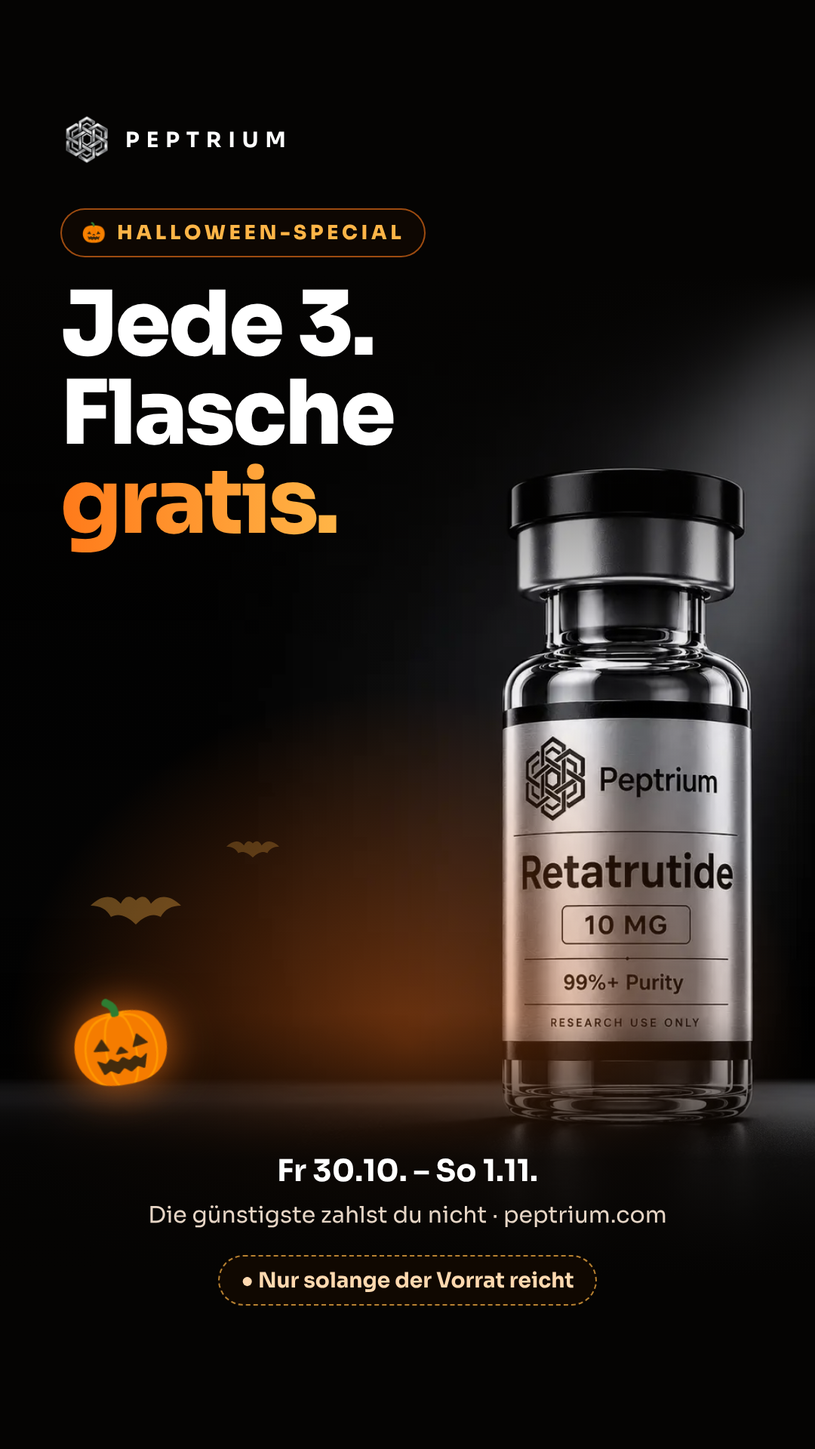
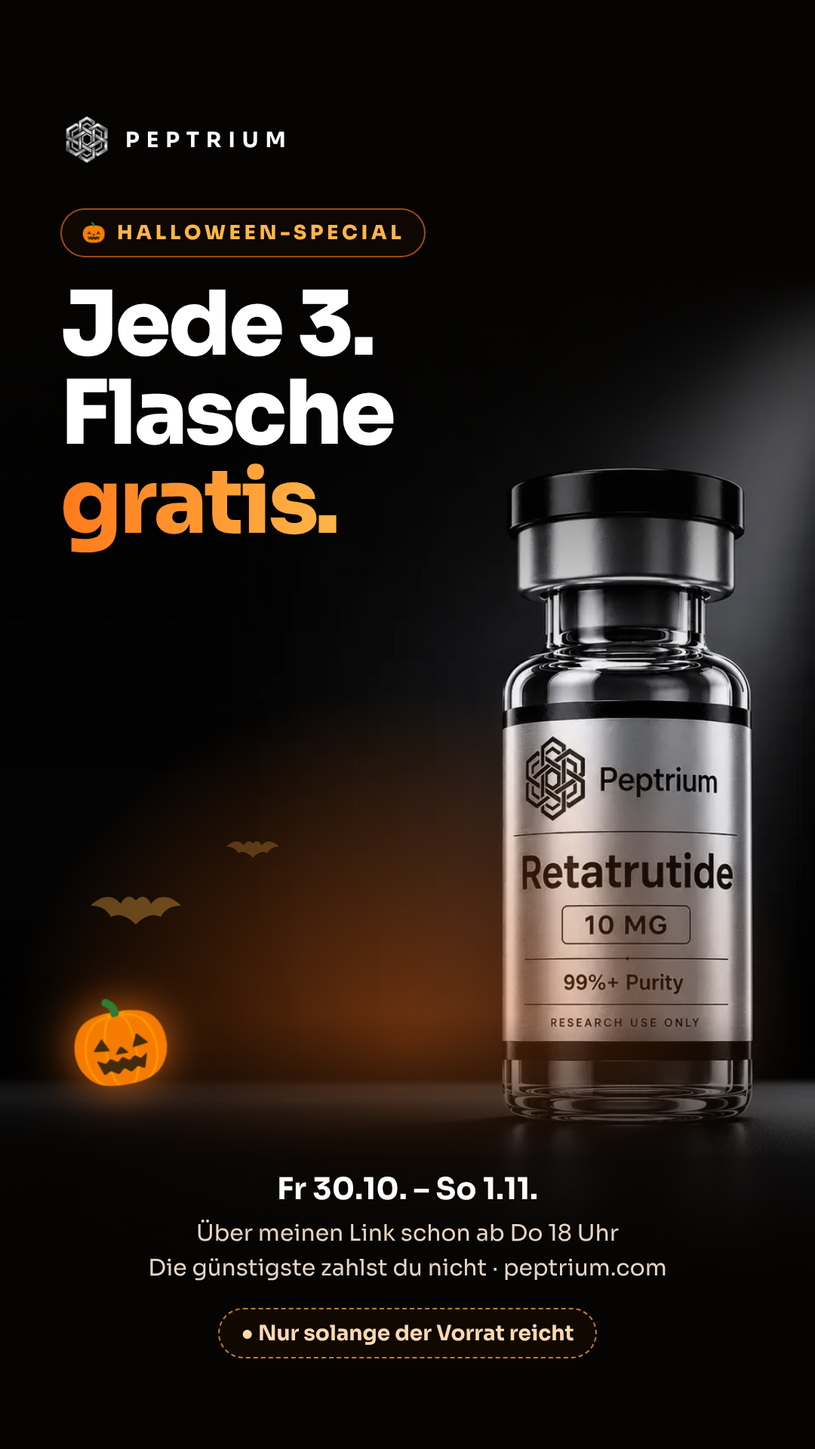
Halloween: Codes/Partnerrabatt nur auf Nicht-Aktionsartikel, Early Access über Partner-Link, Partner-Info aktualisiert
Claude-Session: https://claude.ai/code/session_011YY7DBkbr5BcFGKyLoSbVN

Changed region(s): [[0.1833, 0.7812, 0.825, 0.9375]]

diff --git a/drafts/halloween-2026-10-22/partner/sheet.html b/drafts/halloween-2026-10-22/partner/sheet.html
@@ -42,8 +42,8 @@ h1 span{background:linear-gradient(90deg,#FF7A1A,#FFB547);-webkit-background-cli
 <p class="lead">Unsere Halloween-Aktion – und für dich gibt’s in der Zeit <b style="color:#FFB547">+5 % Provision</b> obendrauf.</p>
 
 <div class="card"><h2>ZEITPLAN</h2><div class="tl">
-<div class="r"><div class="d">Do 29.10. 18 Uhr</div><div class="t"><b>Early Access</b> nur für Newsletter-Abonnenten. Gern schon anteasern: „Morgen startet’s“.</div></div>
-<div class="r"><div class="d">Fr 30.10. 0 Uhr</div><div class="t"><b>Start für alle</b> – jetzt posten! 🎃</div></div>
+<div class="r"><div class="d">Do 29.10. 18 Uhr</div><div class="t"><b>Early Access</b> für Newsletter-Abonnenten <b>und alle, die über deinen Link kommen</b> – du kannst schon ab Donnerstag 18 Uhr posten! 🎃</div></div>
+<div class="r"><div class="d">Fr 30.10. 0 Uhr</div><div class="t"><b>Start für alle</b> – auch ohne Link.</div></div>
 <div class="r"><div class="d">Sa 31.10.</div><div class="t"><b>Halloween</b> – zweiter Post / Story: „Nur noch bis Sonntag“.</div></div>
 <div class="r"><div class="d">So 1.11. 23:59</div><div class="t"><b>Ende</b> – solange der Vorrat reicht.</div></div>
 </div></div>
@@ -52,15 +52,16 @@ h1 span{background:linear-gradient(90deg,#FF7A1A,#FFB547);-webkit-background-cli
 <li>Jede <b>3. Flasche gratis</b> – die günstigste im Warenkorb.</li>
 <li>Gilt für alle <b>vorrätigen Peptid-Flaschen</b>, auch gemischt (z. B. 2× Reta + 1× GHK-Cu).</li>
 <li>Nicht für Pens, Zubehör und Vorbestellungen.</li>
-<li>In der Zeit gelten <b>keine Rabattcodes</b> – das Angebot ist schon stärker.</li>
+<li>Rabattcodes gelten <b>nicht auf die Aktionsflaschen</b> – auf <b>Pens & Zubehör</b> wie immer.</li>
 </ul></div>
 
 <div class="card"><h2>WAS DAS FÜR DICH HEISST</h2><ul class="li">
 <li>Dein <b>Link</b> und dein <b>Code</b> funktionieren weiter – jede Bestellung wird <b>dir zugeordnet</b>.</li>
-<li>Dein Code gibt in der Zeit keinen Extra-Rabatt, das Angebot ersetzt ihn.</li>
+<li>Auf die Aktionsflaschen bekommt dein Kunde statt Code-Rabatt die <b>Gratis-Flasche</b> – das ist mehr wert. Auf <b>Pens & Zubehör</b> gilt dein Rabatt wie immer.</li>
 <li><b>+5 Prozentpunkte Provision</b> auf jede Bestellung in der Aktion (z. B. 20 % → 25 %).</li>
 </ul>
 <div class="big" style="margin-top:26px"><div><small>NORMAL · 1× RETA</small><b>13,48 €</b></div><div><small>HALLOWEEN · 3× RETA</small><b class="o">37,45 €</b></div></div>
+<ul class="li" style="margin-top:22px"><li>Der Bonus wird mit deiner <b>normalen Auszahlung</b> verrechnet. Auch Vorkasse-Bestellungen, die erst nach Sonntag bezahlt werden, zählen – entscheidend ist der <b>Bestellzeitpunkt</b>.</li></ul>
 <p class="ex">Beispiel bei 20 %: Kunde nimmt 3× Retatrutide 10 mg, zahlt <b>149,80 €</b> → du bekommst <b>25 % = 37,45 €</b>. Größere Warenkörbe = mehr für dich.</p>
 </div>
 
@@ -68,10 +69,12 @@ h1 span{background:linear-gradient(90deg,#FF7A1A,#FFB547);-webkit-background-cli
 <li>Hook: <b>„Bei Peptrium ist an Halloween jede 3. Flasche gratis 🎃“</b></li>
 <li>Zeig 3 Flaschen – eine davon „gratis“. Link in Bio / dein Code wie immer.</li>
 <li>Knappheit ehrlich: „Nur bis Sonntag, solange der Vorrat reicht“.</li>
+<li>Kunde fragt „Code + Angebot?“ → <b>Auf Flaschen gilt die Gratis-Flasche, auf Pens dein Code.</b></li>
 </ul>
 <ul class="li no" style="margin-top:18px">
 <li><b>Keine</b> Aussagen zu Wirkung, Abnehmen oder Dosierung – nur Laborforschung.</li>
 <li><b>Keine</b> erfundenen Preise oder Rabatte – nur „jede 3. Flasche gratis“.</li>
+<li>Die Story-Vorlage bitte <b>nicht mit eigenen Preisen</b> beschriften.</li>
 </ul></div>
 <p class="ft">Fragen? Einfach hier im Chat melden. · peptrium.com</p>
 </div></body></html>

diff --git a/drafts/halloween-2026-10-22/partner/story.html b/drafts/halloween-2026-10-22/partner/story.html
@@ -10,7 +10,7 @@ body{width:1080px;height:1920px;overflow:hidden;font-family:Sora,sans-serif;colo
 .pill{display:inline-block;margin-top:56px;font-size:26px;font-weight:800;letter-spacing:.18em;color:#FFB547;border:2px solid rgba(255,122,26,.6);background:rgba(20,10,2,.6);border-radius:99px;padding:14px 26px}
 h1{font-size:118px;line-height:1;font-weight:800;letter-spacing:-.03em;margin-top:30px}
 h1 span{background:linear-gradient(90deg,#FF7A1A,#FFB547);-webkit-background-clip:text;background-clip:text;color:transparent}
-.bot{position:absolute;left:80px;right:80px;bottom:190px;text-align:center}
+.bot{position:absolute;left:80px;right:80px;bottom:120px;text-align:center}
 .d{font-size:40px;font-weight:700}
 .s{font-size:30px;color:#E7D6C6;margin-top:14px}
 .vr{display:inline-block;margin-top:34px;font-size:28px;font-weight:700;color:#FFD9B0;border:2px dashed rgba(255,181,71,.7);border-radius:99px;padding:14px 28px;background:rgba(20,10,2,.75)}
@@ -25,5 +25,5 @@ h1 span{background:linear-gradient(90deg,#FF7A1A,#FFB547);-webkit-background-cli
 <div class="in"><div class="top"><img src="https://peptrium.com/wp-content/uploads/2026/08/IMG_2644-cropped-300x300.png"><b>PEPTRIUM</b></div>
 <div class="pill">🎃 HALLOWEEN-SPECIAL</div>
 <h1>Jede 3.<br>Flasche<br><span>gratis.</span></h1></div>
-<div class="bot"><div class="d">Fr 30.10. – So 1.11.</div><div class="s">Die günstigste zahlst du nicht · peptrium.com</div><div class="vr">● Nur solange der Vorrat reicht</div></div>
+<div class="bot"><div class="d">Fr 30.10. – So 1.11.</div><div class="s">Über meinen Link schon ab Do 18 Uhr</div><div class="s" style="margin-top:8px">Die günstigste zahlst du nicht · peptrium.com</div><div class="vr">● Nur solange der Vorrat reicht</div></div>
 </body></html>

diff --git a/drafts/halloween-2026-10-22/sp-halloween.php b/drafts/halloween-2026-10-22/sp-halloween.php
@@ -59,6 +59,11 @@ function sp_hw_has_ea() {
     return !empty($_COOKIE['sp_hw_ea']) && hash_equals(sp_hw_cookie_val('ea'), (string) $_COOKIE['sp_hw_ea']);
 }
 
+/** Besucher kam ueber einen Partner-Link (SliceWP-Cookie) -> Early Access wie Newsletter. */
+function sp_hw_has_partner() {
+    return function_exists('slicewp_get_referrer_affiliate_id') && (int) slicewp_get_referrer_affiliate_id() > 0;
+}
+
 /** off | teaser | early | live | ended – Sicht des aktuellen Besuchers. */
 function sp_hw_state() {
     static $s = null;
@@ -69,7 +74,7 @@ function sp_hw_state() {
     $now = time();
     if ($now >= $o['end']) return $s = 'ended';
     if ($now >= $o['start']) return $s = 'live';
-    if ($now >= $o['early'] && sp_hw_has_ea()) return $s = 'early';
+    if ($now >= $o['early'] && (sp_hw_has_ea() || sp_hw_has_partner())) return $s = 'early';
     return $s = 'teaser';
 }
 
@@ -202,42 +207,67 @@ add_action('woocommerce_checkout_create_order', function ($order) {
 }, 20);
 
 /* ---------------------------------------------------------------------
- * Codes & Empfehlungs-Rabatt waehrend der Aktion
+ * Codes & Empfehlungs-Rabatt waehrend der Aktion (User 2026-10-22):
+ * gelten NICHT auf Aktionsflaschen (dort gibt es die Gratis-Flasche), aber weiter
+ * auf Pens, Zubehoer usw. Partner-Codes bleiben immer gueltig (Zuordnung).
  * ------------------------------------------------------------------- */
 function sp_hw_is_partner_coupon($coupon) {
     $id = is_object($coupon) ? $coupon->get_id() : wc_get_coupon_id_by_code((string) $coupon);
     return $id && get_post_meta($id, '_sp_affiliate_id', true);
 }
 
+/** Cart-Zeile zaehlt zur Aktion (keine Geschenk-/Abo-Zeile, Produkt geeignet). */
+function sp_hw_item_in_action($item) {
+    if (defined('SP_GIFT_ITEM_META') && !empty($item[SP_GIFT_ITEM_META])) return false;
+    if (!empty($item['sp_abo_interval_days'])) return false;
+    return !empty($item['data']) && sp_hw_product_eligible($item['data']);
+}
+
+/** Summe der Positionen, auf die Codes/Partnerrabatt weiter wirken. */
+function sp_hw_other_subtotal($cart) {
+    $sum = 0.0;
+    foreach ($cart->get_cart() as $item) {
+        if (defined('SP_GIFT_ITEM_META') && !empty($item[SP_GIFT_ITEM_META])) continue;
+        if (sp_hw_item_in_action($item)) continue;
+        $sum += (float) $item['data']->get_price() * (int) $item['quantity'];
+    }
+    return $sum;
+}
+
 add_filter('woocommerce_coupon_is_valid', function ($valid, $coupon) {
-    if (!$valid || !sp_hw_active() || sp_hw_is_partner_coupon($coupon)) return $valid;
-    return false;
+    if (!$valid || !sp_hw_active() || sp_hw_is_partner_coupon($coupon) || !WC()->cart) return $valid;
+    return sp_hw_other_subtotal(WC()->cart) > 0 ? $valid : false;
 }, 50, 2);
 
 add_filter('woocommerce_coupon_error', function ($err, $err_code, $coupon) {
     if ((int) $err_code === WC_Coupon::E_WC_COUPON_INVALID_FILTERED && sp_hw_active() && $coupon && !sp_hw_is_partner_coupon($coupon)) {
-        return 'Während des Halloween-Angebots gelten keine Rabattcodes – jede 3. Flasche ist schon gratis. 🎃';
+        return 'Auf die Halloween-Flaschen gibt es schon die Gratis-Flasche – Rabattcodes gelten in der Zeit nur für Pens und Zubehör. 🎃';
     }
     return $err;
 }, 50, 3);
 
 add_filter('woocommerce_coupon_get_discount_amount', function ($amount, $discounting, $cart_item, $single, $coupon) {
-    return (sp_hw_active() && sp_hw_is_partner_coupon($coupon)) ? 0 : $amount;
+    return (sp_hw_active() && is_array($cart_item) && sp_hw_item_in_action($cart_item)) ? 0 : $amount;
 }, 50, 5);
 
 add_filter('woocommerce_coupon_message', function ($msg, $code, $coupon) {
-    if ($code === WC_Coupon::WC_COUPON_SUCCESS && sp_hw_active() && sp_hw_is_partner_coupon($coupon)) {
-        return 'Partner-Code erkannt ✓ – das Halloween-Angebot gilt bereits, der Code gibt keinen zusätzlichen Rabatt.';
+    if ($code === WC_Coupon::WC_COUPON_SUCCESS && sp_hw_active() && $coupon && sp_hw_is_partner_coupon($coupon)) {
+        return 'Partner-Code erkannt ✓ – auf die Halloween-Flaschen gilt die Gratis-Flasche, auf Pens & Zubehör dein Rabatt.';
     }
     return $msg;
 }, 50, 3);
 
+/* Empfehlungs-Rabatt (sp-affiliate-program.php, Prio 20) nur noch auf die Nicht-Aktions-Positionen. */
 add_action('woocommerce_cart_calculate_fees', function ($cart) {
     if (!sp_hw_active()) return;
     $fees = $cart->fees_api()->get_fees();
     $changed = false;
     foreach ($fees as $k => $fee) {
-        if ((float) $fee->amount < 0 && strpos((string) $fee->name, 'Empfehlungs-Rabatt') === 0) { unset($fees[$k]); $changed = true; }
+        if ((float) $fee->amount >= 0 || strpos((string) $fee->name, 'Empfehlungs-Rabatt') !== 0) continue;
+        $pct = defined('SP_AFF_REFERRAL_DISCOUNT_PCT') ? (float) SP_AFF_REFERRAL_DISCOUNT_PCT : 10;
+        $new = round(sp_hw_other_subtotal($cart) * $pct / 100, 2);
+        if ($new <= 0) { unset($fees[$k]); } else { $fees[$k]->amount = -$new; $fees[$k]->total = -$new; }
+        $changed = true;
     }
     if ($changed) $cart->fees_api()->set_fees($fees);
 }, 98);
@@ -599,6 +629,6 @@ function sp_hw_render_page() {
     echo '<div style="background:#fff;border:1px solid #dcdcde;border-radius:10px;padding:18px 20px;margin:16px 0"><h2 style="margin-top:0">Links</h2>';
     echo '<p><b>Early-Access-Link für die Newsletter-Mail:</b><br><code style="user-select:all">' . esc_html($ea) . '</code></p>';
     echo '<p><b>Vorschau (nur für dich, 24 h, zeigt alles wie live – auch wenn der Schalter aus ist):</b><br><a href="' . esc_url($pv) . '" target="_blank">' . esc_html($pv) . '</a><br><a href="' . esc_url(home_url('/?sp_hw=aus')) . '" target="_blank">Vorschau beenden</a></p></div>';
-    echo '<div style="background:#fff;border:1px solid #dcdcde;border-radius:10px;padding:18px 20px;margin:16px 0"><h2 style="margin-top:0">Was zählt („jede 3. gratis“)</h2><p>' . ($names ? implode(' · ', $names) : '– keine vorrätigen Flaschen –') . '</p><p style="color:#646970">Nur vorrätige Peptid-Flaschen. Nicht: Pens, Zubehör, Vorbestellungen, Abo, Geschenke. Während der Aktion: keine Rabattcodes, kein 10-%-Partnerlink-Rabatt, kein Mengenrabatt auf diese Flaschen. Partner-Codes ordnen weiter zu (0 € Rabatt).</p></div>';
+    echo '<div style="background:#fff;border:1px solid #dcdcde;border-radius:10px;padding:18px 20px;margin:16px 0"><h2 style="margin-top:0">Was zählt („jede 3. gratis“)</h2><p>' . ($names ? implode(' · ', $names) : '– keine vorrätigen Flaschen –') . '</p><p style="color:#646970">Nur vorrätige Peptid-Flaschen. Nicht: Pens, Zubehör, Vorbestellungen, Abo, Geschenke. Auf diese Flaschen während der Aktion: kein Rabattcode, kein 10-%-Partnerlink-Rabatt, kein Mengenrabatt – auf Pens/Zubehör gelten Codes und Partnerrabatt weiter. Partner-Codes ordnen immer zu. Early Access: Newsletter-Link oder Besucher über einen Partner-Link.</p></div>';
     echo '<div style="background:#fff;border:1px solid #dcdcde;border-radius:10px;padding:18px 20px;margin:16px 0"><h2 style="margin-top:0">Ergebnis</h2><p>' . (int) $cnt . ' Bestellungen · ' . wc_price($sum) . ' · ' . (int) $free . ' Flaschen gratis</p></div></div>';
 }

diff --git a/CLAUDE.md b/CLAUDE.md
@@ -248,7 +248,7 @@ ones with established, understood behavior from this engagement. Run a
 | `sp-ek-marge.php` | (2026-10-18, live, user: "brutto bzw richtigen netto Umsatz abzüglich EK") **Peptrium Dashboard → Umsatz & Marge** — **redesigned 2026-10-18 (user: 'komplett verwirrend … schöner')**: page title 'Umsatz & Gewinn', period chips, 3 cards with waterfall rows (`.spm-*` CSS, bars = share of revenue, one-line 'why' per row): 1. 'Was du verdient hast' Umsatz − Ware − Provisionen − Versand & Verpackung = Gewinn; 2. 'Was davon wirklich auf dem Konto ist' Eingenommen − Einkäufe bezahlt − An Partner überwiesen − Versand = Geld übrig + 'Warum anders als der Gewinn?' (Einkäufe − Wareneinsatz = mehr eingekauft als verkauft; Provision verdient − überwiesen); 3. 'Wenn das Lager verkauft wird' 3 boxes (kommt noch rein Lager / + unterwegs, Geld übrig danach). Product/order/EK tables unchanged below. (`admin.php?page=sp-umsatz-marge`, default this month, quick links Letzter Monat / Seit Start). EK per product/variation in option `sp_ek_items` [post_id => usd/eur/code] — seeded from the user's supplier Excel (column "Flasche $: 1–30"): 555 RT10 9.5 $, 556 RT20 12.2, 1011 CU50 3.3, 1012 CU100 6.5, 71 MS10 7.1, 77 CP10 10, 428 BC10 6.5, 577 BT10 17.5, 578 BT5 9, 434 XA10 8, 437 SK10 8, 515 KP10 6.5, 512 TSM10 18, 521 IG1 20. **Added 2026-10-18 (user prices, €):** pens are assembled in-house from the peptide bottle + pen (10 Stk 25 € → 2,50) + cartridge (30 Stk 14 € → 0,4667) → pen variations 547/548/549 (RT20/30/40), 597/598 (CU50/100), 544/545 (MS20/40) = usd of the bottle + field `add` 2.9667 €; Spritzen 100 Stk 25 € → product 80 (10er) 2,50 €; Pen Nadeln 100 Stk 15 € → 908 (15er) 2,25 €; Injektionskit 745 = ASSUMPTION 10 Spritzen 2,50 € (contents unconfirmed); costs: DHL DE 6,19 / AT 14,90 (`ship_order_at`, by shipping country), packaging 0,20 €/package (100 Stk 20 €), import_pct 0. **Update 2026-10-18:** Bac Water 74 = 1 $ (user); every pen also contains one Bac Water → pen usd = bottle + 1 $; Alkoholtupfer 400 Stk 5 € → Injektionskit 745 = 10 Spritzen + 10 Tupfer = 2,625 € (still an assumption about the contents). ALL bottles (peptides + Bac Water) are bought in USD → keep them in the `usd` field; only Spritzen/Nadeln/Pen/Kartusche/Tupfer/Verpackung/DHL are €. Now every sold item has an EK. Later the same day: Injektionskit 745 = 10 Spritzen + 1 Bac Water + Tupfer (usd = Bac, add 2,625 €); Bac Water shipping 70 $ for 120 bottles → Bac = 1,5833 $ (74, pens = bottle + 1,5833 $, 745). Peptide shipping from the supplier was free; the user will send the stock quantities bought later. All editable in the EK table on that page ($ or €). USD→EUR from open.er-api.com (daily cron `sp_ek_rate_update`, option `sp_ek_rate`, manual override `sp_ek_rate_manual`). Costs option `sp_ek_costs` (import_pct, ship_order, pack_order). On processing/completed the unit EK is written to item meta `_sp_ek_eur` (snapshot, so later EK changes don't rewrite past months); older items use the current EK ("geschätzt"). Old GHK-Cu items (simple product 68) fall back via `sp_bbv_legacy_variation()`. Figures per order (`sp_ek_order_figures()`): Umsatz = total − refunds − top-up part (no VAT — shop has tax off), wallet-paid Abo deliveries count, top-up-only and `_sp_is_test` orders excluded; gifts count toward EK; partner commissions = non-rejected `wp_slicewp_commissions` with reference = order id; line revenue scaled by the partner negative fee. First run (Seit Start, 44 orders): Umsatz 8.093,67 €, EK 499,24 € (97 items without EK!), Provisionen 1.174,81 €. |
 | `sp-lager.php` | (2026-10-18, live, user: "ja richtig") **Peptrium Dashboard → Lager** (`admin.php?page=sp-lager`). Stock on MATERIAL level: option `sp_lager_mats` [code => name, usd|eur, qty (null = not tracked)] — codes = supplier codes (RT10/RT20/RT30/RT40, CU50/CU100, MS10/20/40, CP10, BC10, BT10/BT5, XA10, SK10, KP10, TSM10, IG1, CGL10 Cagrilintide, ML10 Melanotan 2, K80 Klow — the last 3 not in the shop) + BAC (1,5833 $), PEN/KART/SPR/NAD/TUPF (€, not counted yet → null). Recipes `sp_lager_recipes()` per product/variation id (pens = bottle + BAC + PEN + KART; 80 = 10 SPR; 908 = 15 NAD; 745 = 10 SPR + 1 BAC + 10 TUPF; legacy 68 via `sp_bbv_legacy_variation`). Deducted when an order goes to **completed** (= shipped; meta `_sp_lager_out`, only if completed after option `sp_lager_since` = 2026-10-18 12:37), added back on cancelled/refunded/failed. Columns: Bestand, reserviert (processing orders), verfügbar, unterwegs, Verkauf 30 Tage (incl. gifts), reicht noch (yellow < 21 d). Deliveries in option `sp_lager_in` (button "Angekommen – einbuchen"); seeded: Peptid-Lieferant 18.10. (RT10 40, RT20 30, CGL10 10, BC10 10, CU50 40, ML10 10, K80 10, BAC 20) + Bac-Lieferant (BAC 120). Start count 18.10.: RT10 50, RT20 30, CU100 10, BAC 40, all other bottles 0. Warning box lists in-stock shop products whose material is empty (at seed: GHK-Cu 50 + GHK pen 50, MOTS-c 10 + MOTS pens, Reta pens 30/40, CJC) — shop stock status NOT changed automatically (asked the user). Log option `sp_lager_log`. User 2026-10-18: no pre-assembled pens (assembled only when an order comes in → recipe deduction is right); accessories (PEN/KART/SPR/NAD/TUPF) are in stock but NOT counted yet → stay null until the user sends counts. **Purchases are paid when ordered (user 2026-10-18):** each delivery stores `paid` (€, frozen at creation, editable on the card; date = ordered & paid) — seeded 1.248,11 € (1403 $) + 169,02 € (190 $); 'Angekommen' only books stock. `sp_lager_purchases($start,$end)` feeds a **'Geldfluss im Zeitraum'** box in Umsatz & Marge: Eingenommen − Einkäufe bezahlt − An Partner überwiesen (`sp_aff_transfers` by date) − Versand & Verpackung = Geld übrig (the 'Ergebnis' above stays accrual: EK counted when sold). Delivery dates were assumed 18.10. — ask the user for the real order dates/amounts. **Abverkauf-Wert (2026-10-18, user):** tiles 'Umsatz bei Abverkauf – Lager' / '… inkl. unterwegs' + Rohertrag; VK per material = optional field `vk` (column 'VK €') else the shop price of the product whose recipe is exactly [code=>1] (`sp_lager_vk()`; RT20 counted as vial, not pen); regular prices, no discounts/gifts/commission. At build: Lager 9.237 €, incl. unterwegs 19.901,20 €; CGL10/ML10/K80 have no VK (not in shop) → excluded until a VK is entered. **Umsatz & Marge also shows 'Wenn das Lager komplett verkauft wird'** (via `sp_lager_summary()`): Listenpreis → realistic revenue = list × realisation ratio of the last 90 days (line revenue ÷ regular price × qty, catches bundle/partner discounts, codes, gifts; 89 % at build) − commissions at the 90-day share (14,5 %) = 'kommt noch rein'; **EK is NOT deducted there** (user 2026-10-18: purchases are already paid → shown only as grey 'Einkaufswert (schon bezahlt)'), plus 'Geld übrig danach' = Geldfluss 'Geld übrig' of the selected period + 'kommt noch rein'. Shipping not deducted. At build (Oct): kommt noch rein 7.029 € (Lager) / 15.143 € (incl. unterwegs); Geld übrig danach 10.066 € / 18.181 €. Material prices are separate from `sp_ek_items` (duplicate on purpose; keep both in sync when prices change). |
 | `sp-wartung.php` | (2026-10-19, live, OFF by default) **Wartungsmodus** after the AlexHost KVM maintenance reboot (server down ~5 min 19.10. ~15:50 Berlin; all services auto-started, nothing to reconfigure). Peptrium Dashboard → Wartungsmodus (`admin.php?page=sp-wartung`): on/off, page text, auto-off after 30 min/1/2/4 h/never (option `sp_wartung` on/until/text/by/since). When on: visitors get the dark Peptrium maintenance page (logo, "Wir sind gleich wieder für dich da.", 60 s auto-reload, Telegram + mail) with HTTP 503, `Retry-After: 600`, `X-SP-Wartung: 1`, noindex (template_redirect prio −999); admins (`manage_woocommerce`) see the shop + red bottom bar + admin-bar node; untouched: wp-admin, login, REST/Store API, admin-ajax, cron, wc-api, `?sp_health=1`. Preview for admins: `/?sp_wartung_vorschau=1`. Tested live with a 15 s auto-off window. **Unplanned server outage:** WordPress can't answer then → same page as a **Cloudflare Worker** `drafts/wartungsseite-2026-10-19/peptrium-wartung-worker.js` (logo base64-embedded, passes everything through, replaces only HTML GET responses with status 502/503/504/520–526 or a thrown fetch; skips wp-admin/wp-json/wp-content/wp-includes/login/cron, `sp_health`, and 503s carrying `X-SP-Wartung`). Must be created by the user in Cloudflare (Workers & Pages → create → paste → route `peptrium.com/*` + `www.peptrium.com/*`, failure mode open; free plan 100k requests/day — optionally add a route `peptrium.com/wp-content/*` with no Worker to save requests). Logic unit-tested locally with mocked fetch. |
-| `sp-halloween.php` | (2026-10-22, live but **OFF**, user: jede 3. gratis (die günstigste), Partner +5 %, Early Access ja, Halloween-Look, alles mit einem Schalter) **Halloween-Modus** — Peptrium Dashboard → 🎃 Halloween (`admin.php?page=sp-halloween`), option `sp_hw` {on, deko, early/start/end timestamps (default Do 29.10. 18:00 / Fr 30.10. 00:00 / So 1.11. 23:59 Berlin), bonus 5, ea + pv tokens}, log `sp_hw_log`. States `sp_hw_state()`: off/teaser/early (only with EA cookie)/live/ended; `sp_hw_active()` = live or early. **Pricing:** `woocommerce_before_calculate_totals` prio 25 (after sp-quantity-discount 20, before gift tiers 30): eligible units (`sp_hw_product_eligible()`: published, not on sale, not Zubehör cat 20, not `sp_preorder_product_ids()`, not ids 729/817/745/908/74/80/393/395/396, not any product whose title contains the word 'Pen' (pens have no own category — so NEW pens are excluded too; user 2026-10-22: new products coming in a few days must join the action automatically → they do if published, in stock, regular price without sale price, not Zubehör, not in the preorder list); skips gift lines `sp_is_gift` and Abo lines) get their REGULAR price back (cancels the bundle discount), then floor(n/3) cheapest units free via set_price; `line_subtotal` restored to regular (prio 30) so the drawer shows savings; cart item key `sp_hw_free`, item data 'Halloween: N× gratis 🎃', order item meta 'Halloween-Angebot', order meta `_sp_hw` (free count) + `_sp_hw_phase`. Gift tiers count the PAID amount. **Codes:** while active all coupons invalid (`woocommerce_coupon_is_valid` false + `woocommerce_coupon_error` message) EXCEPT partner coupons (`_sp_affiliate_id` meta) which stay valid with 0 € discount (attribution kept, own success message); 10-%-Empfehlungs-Rabatt fee removed (fees prio 98); `slicewp_calculate_commission_amount` prio 30 adds bonus × item amount (at checkout time). **Links:** Early Access `/?sp_hw=frueh&k=<ea>` → cookie `sp_hw_ea` (until end+1 d) → 302 /alle-produkte/ (utm kept); preview `/?sp_hw=vorschau&k=<pv>` → cookie `sp_hw_pv` 24 h = everything live for that browser even when OFF; `/?sp_hw=aus` ends it (links shown on the admin page). **Look (`deko`):** top banner `#sp-top-banner` gets class `sp-hw` + own link `#sp-hw-tb` (countdown / teaser text) + 3 flying bat SVGs; **homepage HERO takeover** (user 2026-10-22: Halloween must be visible without scrolling): JS polls for the mobile hero `.sp-hero2` (sp-home-hero-mobile.php, title/sub/cta) or desktop `#sp-hero-banner .sp-hb-*` and sets eyebrow pill '🎃 HALLOWEEN-SPECIAL', title 'Jede 3. Flasche <orange>gratis.</orange>', sub (mobile short 'Die günstigste zahlst du nicht.' — longer text overlapped the vials), orange CTA '3 für 2 sichern' (teaser: 'Früher dabei sein' → #sp-nlh), countdown chips, overlay `.sp-hw-hov` (orange/purple glow, cobweb, 3 flying bats, rising embers, pumpkins desktop only); the old strip `.sp-hw-strip` is only a fallback if no hero is found; mini strip after the `#sp-cat` hero on categories/alle-produkte; card badge '🎃 3 für 2' on `.sp-pc[data-id]` in `sp_hw_eligible_ids()` (transient `sp_hw_ids_v1` 10 min) + card text 'ab 3 Stück…' → '🎃 Jede 3. Flasche gratis'; drawer 'Bundle −X%' → '🎃 Halloween'; buybox: output buffer (template_redirect prio 7) sets tier data-disc to 0 + labels '1 gratis/1 gratis/3 gratis', flag '🎃 Halloween', JS fixes `#rx-total`/`#rx-save` (buybox JS only knows integer % of the largest tier) + box `#sp-hw-bb`; drawer box `#sp-hw-cd` (Store API cart count, 'Noch N Flaschen, dann ist eine gratis'). Tested 2026-10-22 in preview via Store API (`drafts/halloween-2026-10-22/storetest.sh`): 3× Reta10 → 149,80; 2× Reta20 + GHK50 → GHK free; 6 mixed → 2 cheapest free; TIKTOK10 rejected with message; SCHLANK10 accepted, 0 €; pens/Bac untouched. Eligible at build: CJC, Mots-C, GHK-Cu 50/100, Reta 10/20 (shop stock status — Lager says CJC/Mots/GHK50 bottles are 0!). **Added 2026-10-22 (user: "ja mach"):** (a) newsletter popup copy per phase (JS on `#sp-nlp`): teaser = '🎃 Halloween früher für Insider' + early/start dates + button 'Ja, früher dabei sein'; live = '10 % Rabatt für deine nächste Bestellung' (codes don't work during the action, code valid 30 days); (b) confirming the newsletter during teaser/early (`?sp_nl=danke`, init prio 2) sets the `sp_hw_ea` cookie → early access on that device; (c) checkout row `#sp-hw-co` '🎃 Halloween: N Flasche(n) gratis −X €' before the total (wp.data cart store, throttled subscribe; only when active, independent of `deko`); (e) honest scarcity 'solange der Vorrat reicht' (user 2026-10-22, true — stock is limited): pill `.sp-hw-vr` in the hero (mobile: first child of the CTA wrap, which is moved to bottom 64px; desktop: under the sub) — live 'Nur solange der Vorrat reicht', teaser 'Begrenzter Vorrat – Insider kaufen zuerst'; also in the live top banner, buybox box, strips and the teaser popup text; (f) 'Nur noch wenige verfügbar' replaces the buybox `.rx-stock` text (amber) on ALL product pages while the action is active (except 729/745/817), switch `sp_hw['wenig']` (checkbox in admin, default on). User decision 2026-10-22: NO stock counting ("ich weiß wie viel ich selber als vorrat habe") — a first version based on sp-lager stock was replaced; user was told false scarcity claims are a UWG risk and takes responsibility; (d) preview can show the teaser phase: `/?sp_hw=vorschau&s=teaser&k=<pv>` (cookie `sp_hw_pvs`). Note: the checkout item line shows the REGULAR line total (224,70 for 3× Reta) + 'Spare' badge because `line_subtotal` is restored — same as the existing bundle discount behaviour; Zwischensumme is correct. Open: mails (teaser 28.10., early access 29.10. 18:00, last chance), partner info mail, user's go. |
+| `sp-halloween.php` | (2026-10-22, live but **OFF**, user: jede 3. gratis (die günstigste), Partner +5 %, Early Access ja, Halloween-Look, alles mit einem Schalter) **Halloween-Modus** — Peptrium Dashboard → 🎃 Halloween (`admin.php?page=sp-halloween`), option `sp_hw` {on, deko, early/start/end timestamps (default Do 29.10. 18:00 / Fr 30.10. 00:00 / So 1.11. 23:59 Berlin), bonus 5, ea + pv tokens}, log `sp_hw_log`. States `sp_hw_state()`: off/teaser/early (only with EA cookie)/live/ended; `sp_hw_active()` = live or early. **Pricing:** `woocommerce_before_calculate_totals` prio 25 (after sp-quantity-discount 20, before gift tiers 30): eligible units (`sp_hw_product_eligible()`: published, not on sale, not Zubehör cat 20, not `sp_preorder_product_ids()`, not ids 729/817/745/908/74/80/393/395/396, not any product whose title contains the word 'Pen' (pens have no own category — so NEW pens are excluded too; user 2026-10-22: new products coming in a few days must join the action automatically → they do if published, in stock, regular price without sale price, not Zubehör, not in the preorder list); skips gift lines `sp_is_gift` and Abo lines) get their REGULAR price back (cancels the bundle discount), then floor(n/3) cheapest units free via set_price; `line_subtotal` restored to regular (prio 30) so the drawer shows savings; cart item key `sp_hw_free`, item data 'Halloween: N× gratis 🎃', order item meta 'Halloween-Angebot', order meta `_sp_hw` (free count) + `_sp_hw_phase`. Gift tiers count the PAID amount. **Codes (reworked 2026-10-22, user: "setz alles um so wie du es machen würdest"):** coupons and the 10-%-Empfehlungs-Rabatt give NO discount on action bottles but keep working on pens/Zubehör/other non-action lines — `woocommerce_coupon_get_discount_amount` → 0 for `sp_hw_item_in_action()` lines; non-partner coupons are rejected only if the cart has no non-action items (`sp_hw_other_subtotal()` = 0, message 'Rabattcodes gelten in der Zeit nur für Pens und Zubehör'); partner coupons (`_sp_affiliate_id`) always valid (attribution); the Empfehlungs-Rabatt fee is recomputed on `sp_hw_other_subtotal()` × SP_AFF_REFERRAL_DISCOUNT_PCT (fees prio 98; removed if 0). Tested: pen + 3× Reta + SCHLANK10/TIKTOK10/partner cookie 40 → pen −26,49 €, Reta 1 gratis; only Reta + TIKTOK10 → rejected. **Early access also for partner-link visitors** (`sp_hw_has_partner()` = SliceWP `slicewp_aff` cookie) — tested via `pre_option_sp_hw` simulation (cookie → early/active, none → teaser). Note: execute-php snippets containing a literal `$_COOKIE['…']=` get an EMPTY response (Cloudflare WAF) — build the key as a string; `slicewp_calculate_commission_amount` prio 30 adds bonus × item amount (at checkout time). **Links:** Early Access `/?sp_hw=frueh&k=<ea>` → cookie `sp_hw_ea` (until end+1 d) → 302 /alle-produkte/ (utm kept); preview `/?sp_hw=vorschau&k=<pv>` → cookie `sp_hw_pv` 24 h = everything live for that browser even when OFF; `/?sp_hw=aus` ends it (links shown on the admin page). **Look (`deko`):** top banner `#sp-top-banner` gets class `sp-hw` + own link `#sp-hw-tb` (countdown / teaser text) + 3 flying bat SVGs; **homepage HERO takeover** (user 2026-10-22: Halloween must be visible without scrolling): JS polls for the mobile hero `.sp-hero2` (sp-home-hero-mobile.php, title/sub/cta) or desktop `#sp-hero-banner .sp-hb-*` and sets eyebrow pill '🎃 HALLOWEEN-SPECIAL', title 'Jede 3. Flasche <orange>gratis.</orange>', sub (mobile short 'Die günstigste zahlst du nicht.' — longer text overlapped the vials), orange CTA '3 für 2 sichern' (teaser: 'Früher dabei sein' → #sp-nlh), countdown chips, overlay `.sp-hw-hov` (orange/purple glow, cobweb, 3 flying bats, rising embers, pumpkins desktop only); the old strip `.sp-hw-strip` is only a fallback if no hero is found; mini strip after the `#sp-cat` hero on categories/alle-produkte; card badge '🎃 3 für 2' on `.sp-pc[data-id]` in `sp_hw_eligible_ids()` (transient `sp_hw_ids_v1` 10 min) + card text 'ab 3 Stück…' → '🎃 Jede 3. Flasche gratis'; drawer 'Bundle −X%' → '🎃 Halloween'; buybox: output buffer (template_redirect prio 7) sets tier data-disc to 0 + labels '1 gratis/1 gratis/3 gratis', flag '🎃 Halloween', JS fixes `#rx-total`/`#rx-save` (buybox JS only knows integer % of the largest tier) + box `#sp-hw-bb`; drawer box `#sp-hw-cd` (Store API cart count, 'Noch N Flaschen, dann ist eine gratis'). Tested 2026-10-22 in preview via Store API (`drafts/halloween-2026-10-22/storetest.sh`): 3× Reta10 → 149,80; 2× Reta20 + GHK50 → GHK free; 6 mixed → 2 cheapest free; TIKTOK10 rejected with message; SCHLANK10 accepted, 0 €; pens/Bac untouched. Eligible at build: CJC, Mots-C, GHK-Cu 50/100, Reta 10/20 (shop stock status — Lager says CJC/Mots/GHK50 bottles are 0!). **Added 2026-10-22 (user: "ja mach"):** (a) newsletter popup copy per phase (JS on `#sp-nlp`): teaser = '🎃 Halloween früher für Insider' + early/start dates + button 'Ja, früher dabei sein'; live = '10 % Rabatt für deine nächste Bestellung' (codes don't work during the action, code valid 30 days); (b) confirming the newsletter during teaser/early (`?sp_nl=danke`, init prio 2) sets the `sp_hw_ea` cookie → early access on that device; (c) checkout row `#sp-hw-co` '🎃 Halloween: N Flasche(n) gratis −X €' before the total (wp.data cart store, throttled subscribe; only when active, independent of `deko`); (e) honest scarcity 'solange der Vorrat reicht' (user 2026-10-22, true — stock is limited): pill `.sp-hw-vr` in the hero (mobile: first child of the CTA wrap, which is moved to bottom 64px; desktop: under the sub) — live 'Nur solange der Vorrat reicht', teaser 'Begrenzter Vorrat – Insider kaufen zuerst'; also in the live top banner, buybox box, strips and the teaser popup text; (f) 'Nur noch wenige verfügbar' replaces the buybox `.rx-stock` text (amber) on ALL product pages while the action is active (except 729/745/817), switch `sp_hw['wenig']` (checkbox in admin, default on). User decision 2026-10-22: NO stock counting ("ich weiß wie viel ich selber als vorrat habe") — a first version based on sp-lager stock was replaced; user was told false scarcity claims are a UWG risk and takes responsibility; (d) preview can show the teaser phase: `/?sp_hw=vorschau&s=teaser&k=<pv>` (cookie `sp_hw_pvs`). Note: the checkout item line shows the REGULAR line total (224,70 for 3× Reta) + 'Spare' badge because `line_subtotal` is restored — same as the existing bundle discount behaviour; Zwischensumme is correct. Open: mails (teaser 28.10., early access 29.10. 18:00, last chance), partner info mail, user's go. |
 | `sp-indexnow.php` | (2026-10-11, live) **IndexNow** (Bing, Yandex, Seznam, Naver; DuckDuckGo/Ecosia/Yahoo/ChatGPT search use Bing — Google does NOT use IndexNow). Key in option `sp_indexnow_key` (32 hex), served as `/<key>.txt` by an `init` hook (prio 0, no rewrite). `save_post` on published, visible products/pages → submits the permalink on `shutdown` (max once per URL per 10 min, transient `sp_inx_<md5>`). `sp_indexnow_submit_all()` sends every sitemap URL (`sp_indexnow_all_urls()` walks the core sitemap providers, so it inherits the sitemap filters) — run once on 2026-10-11: 61 URLs → HTTP 202. Last result in option `sp_indexnow_last`. Context: user set up Bing Webmaster Tools via "Import from Google Search Console" (Google login) the same day; Cloudflare AI Crawl Control: Search + Agent = Allow, Training = Block (OpenAI/Anthropic/Perplexity), Bot Fight Mode off, Bot Preference Sync off. |
 | `sp-compliance.php` | (2026-10-11, live, user: "ja mach") **Render-time compliance fixes** (output buffer `template_redirect` prio 3 + `wp_mail` filter; no Elementor data touched). (1) Retatrutide: the `.sp-reta-desc` block containing "Abnehm-Peptide"/"24 % Körpergewichtsreduktion" is removed. (2) Peptrium-Pens: dose table `.sp-dose-table`, `.sp-dose-sub`, `.sp-dose-common` removed, title "Technische Referenz – Dosiszähler" → "Technische Daten", table rows "Maximale Dosen" and "Verabreichung (subkutan)" removed (device feature "Dosiszähler – exakt per Klick" stays). (3) **COAs don't exist yet** → while option `sp_cmp_coa` ≠ `'show'`: `.rx-coa-box` (disabled PDF button boxes, COA + CE) removed, FAQ `<details>` "Was ist ein Analysezertifikat (COA)?" removed, ~35 exact phrases in `sp_cmp_coa_map()` neutralised to "HPLC-/LC-MS-geprüft" (incl. "Janoshik" lab name on Über uns, fake-review sentences about certificates, "vollständigem Impressum" claim); mails via `sp_cmp_mail_map()`. Set `sp_cmp_coa`='show' once real COAs exist. (4) Menu: the "Nach Ziel suchen" drawer group (old goal labels "Gewichtsmanagement", "Fettverbrennung", "Anti-Aging", "Heilung") is rebuilt SERVER-SIDE as "Forschungsbereiche" with `sp_ds_menu_cats()` links (same markup as the sp-ds.php JS). Helper `sp_cmp_cut()` removes an element by depth-counting its tag. Also on 2026-10-11: product short descriptions (post_excerpt) rewritten without COA/skin claims (old in meta `_sp_excerpt_backup_20261011`; GHK-Cu no longer promises "glattere Haut"; Injektionskit no "Injizieren"); **category 17 renamed "Fettverlust" → "Stoffwechsel"** (slug `fettverlust` unchanged, old name in option `sp_cat17_name_backup`). |
 | `sp-product-about.php` | (2026-10-11, live, area `katalog`) The Elementor product templates never rendered the WooCommerce description → this shows `post_content` as section `#sp-pp-about` ("Produktinfo / Über <Name>", light card, collapsed to 300px with "Weiterlesen" when long, 2 columns ≥1024px), printed in `wp_footer` (server-side HTML for Google) and moved into `.pp-root` by JS; CSS `order:3!important` (**CSS order must be an integer** — 3.5 was silently ignored; `body.single-product .pp-root>*{order:50}` in pp.css), lands after "Passt dazu" sets, before the Lexikon. All 17 visible products got NEW descriptions (~200–250 words, du-form, research framing only: what it is, what is studied, Lieferform/Rekonstitution with links to Bac Water + Peptid-Rechner, Lagerung → Lagerungs-Guide, HPLC/LC-MS quality, Lexikon link, lab-only note; no effects, no dosing, no COA) — source `scratchpad/ptext2/texts.py`, copy in `drafts/produkttexte-2026-10-11.json`; old texts in meta `_sp_desc_backup_20261011`. **New products: fill the "Beschreibung" field → section appears automatically** (min 80 chars). |
